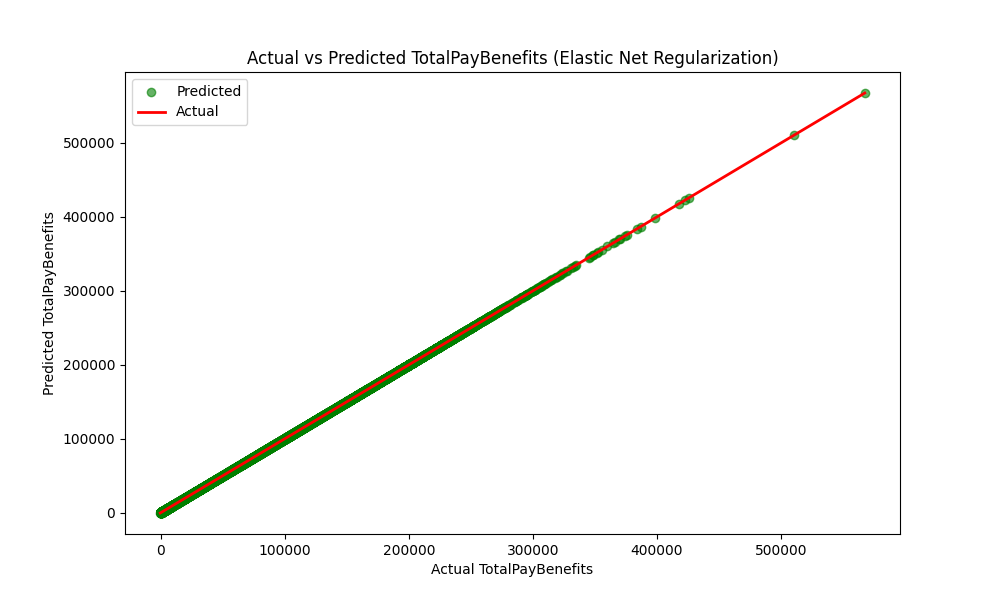
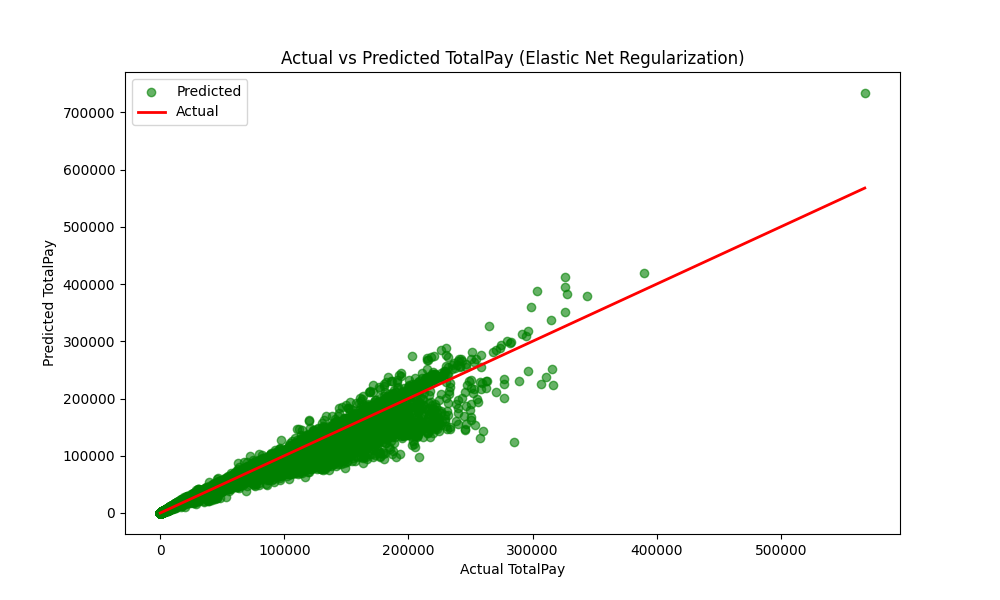
refactor: add MICE for preprocessing

diff --git a/lab4/utils.py b/lab4/utils.py
@@ -7,9 +7,25 @@ from sklearn.decomposition import PCA
 import pandas as pd
 import matplotlib.pyplot as plt
 from tabulate import tabulate
+from sklearn.experimental import enable_iterative_imputer
+from sklearn.impute import IterativeImputer
 
 
-def preprocessData(filename):
+def mice_imputation(data):
+    """
+    Perform MICE imputation on the given DataFrame to replace missing values.
+
+    Parameters:
+    data (pd.DataFrame): The input DataFrame with missing values.
+
+    Returns:
+    pd.DataFrame: The DataFrame with missing values imputed.
+    """
+    imputer = IterativeImputer(max_iter=10, random_state=0)
+    imputed_data = imputer.fit_transform(data)
+    return pd.DataFrame(imputed_data, columns=data.columns)
+
+def preprocessData(filename, results_dir):
     data = pd.read_csv(
         filename,
         dtype={
@@ -26,27 +42,46 @@ def preprocessData(filename):
             'Agency': str,
             'Status': str
         },
-        na_values=["Not Provided", "N/A", "", " "]
+        na_values=["Not Provided", "N/A", "", " "],
+        low_memory=False
     )
+    
     # Check for missing values
-    print("Missing values per column:\n", data.isnull().sum())
+    missing_values = data.isnull().sum()
+    with open(f"{results_dir}/missing_values.txt", "w") as file:
+        file.write("Missing values per column:\n")
+        file.write(missing_values.to_string())
+    
+    data = data.dropna(subset=['BasePay', 'OtherPay'])
 
-    # Fill missing values in Benefits and Status (or drop if not needed)
-    data['Benefits'] = data['Benefits'].fillna(0)
+    # MICE imputation for 'Benefits' column
+    MICE_IMPUTER = IterativeImputer(max_iter=10, random_state=42)
+    current_cols = data.columns.tolist()
+    benefitsIndex = current_cols.index('Benefits')
+    benefitsIndex = 1
+    imputed_benefits = None
+    for feat in ['Benefits']:
+        if feat in data.columns:
+            imputed_benefits = MICE_IMPUTER.fit_transform(data[['OtherPay', 'Benefits', 'Year']])
+            imputed_benefits = pd.DataFrame(imputed_benefits).round(2).values
+    
+    # Replace imputed benefits only if it is NaN
+    data['Benefits'] = data['Benefits'].fillna(pd.Series(imputed_benefits[:, benefitsIndex], index=data.index))
+    # Fill missing values in Status (or drop if not needed)
     data['Status'] = data['Status'].fillna("Unknown")
-
+    
     # Convert columns to appropriate data types
     pay_columns = ['BasePay', 'OvertimePay', 'OtherPay', 'Benefits', 'TotalPay', 'TotalPayBenefits']
     data[pay_columns] = data[pay_columns].apply(pd.to_numeric, errors='coerce')
-
+    
     # Remove duplicates based on Id
     data.drop_duplicates(subset="Id", inplace=True)
     return data
 
-def trainModels(data, results_dir, trainColumns, remove=False):
+def trainModels(data, results_dir, trainColumns, targetColumn, remove=False):
     # Select the features and target variable
     X = data[trainColumns]
-    y = data['TotalPayBenefits']
+    y = data[targetColumn]
 
     # Split the data into training and testing sets
     X_train, X_test, y_train, y_test = train_test_split(X, y, test_size=0.2, random_state=42)
@@ -101,9 +136,9 @@ def trainModels(data, results_dir, trainColumns, remove=False):
         plt.figure(figsize=(10, 6))
         plt.scatter(y_test, predictions, label='Predicted', color=color, alpha=0.6)
         plt.plot([min(y_test), max(y_test)], [min(y_test), max(y_test)], color='red', lw=2, label='Actual')
-        plt.title(f'Actual vs Predicted TotalPayBenefits ({model_name})')
-        plt.xlabel("Actual TotalPayBenefits")
-        plt.ylabel("Predicted TotalPayBenefits")
+        plt.title(f'Actual vs Predicted TotalPay ({model_name})')
+        plt.xlabel("Actual TotalPay")
+        plt.ylabel("Predicted TotalPay")
         plt.legend()
         if remove:
             plt.savefig(f"{results_dir}/{model_name.lower().replace(' ', '_')}_remove.png")
@@ -115,7 +150,7 @@ def trainModels(data, results_dir, trainColumns, remove=False):
 
 def clusterAndVisualize(data, results_dir):
     # Select relevant features for clustering
-    features = data[['TotalPay', 'Benefits']]
+    features = data[['BasePay', 'OtherPay']]
     # Scale the data
     scaler = StandardScaler()
     scaled_features = scaler.fit_transform(features)
@@ -134,11 +169,11 @@ def clusterAndVisualize(data, results_dir):
 
     plt.figure(figsize=(10, 12))
     plt.subplot(2, 1, 1)
-    scatter = plt.scatter(data['TotalPay'], data['Benefits'], 
+    scatter = plt.scatter(data['BasePay'], data['OtherPay'], 
                           c=data['Cluster'].map(color_map), alpha=0.5)
     plt.title('K-means Clustering')
-    plt.xlabel('Benefits')
-    plt.ylabel('TotalPayBenefits')
+    plt.xlabel('OtherPay')
+    plt.ylabel('TotalPay')
     plt.grid()
     handles = [plt.Line2D([0], [0], marker='o', color='w', 
                            markerfacecolor=color, markersize=10) for color in colors]
@@ -155,7 +190,7 @@ def clusterAndVisualize(data, results_dir):
     # Plotting the cluster centers
     centers = pca.transform(kmeans.cluster_centers_)
     plt.scatter(centers[:, 0], centers[:, 1], s=300, c='red', label='Centroids', marker='X')
-    plt.title('K-means Clustering of TotalPayBenefits (PCA Projection)')
+    plt.title('K-means Clustering of TotalPay (PCA Projection)')
     plt.xlabel('PCA Component 1')
     plt.ylabel('PCA Component 2')
     plt.legend()
@@ -165,7 +200,7 @@ def clusterAndVisualize(data, results_dir):
     plt.close()
 
 def predictedClusters(data, results_dir, elastic_net_model):
-    features = data[['TotalPay', 'Benefits']]
+    features = data[['BasePay', 'OtherPay']]
     # Scale the data
     scaler = StandardScaler()
     scaled_features = scaler.fit_transform(features)
@@ -174,7 +209,7 @@ def predictedClusters(data, results_dir, elastic_net_model):
     kmeans.fit(scaled_features)
 
     data['Cluster'] = kmeans.labels_
-    data['PredictedTotalPayBenefits'] = elastic_net_model.predict(data[['TotalPay', 'Benefits']])
+    data['PredictedTotalPay'] = elastic_net_model.predict(data[['BasePay', 'OtherPay']])
 
     # Define colors for clusters
     color_map = {0: 'blue', 1: 'green', 2: 'orange'}
@@ -182,17 +217,17 @@ def predictedClusters(data, results_dir, elastic_net_model):
     
     # Plot each cluster
     for cluster, color in color_map.items():
-        plt.scatter(data[data['Cluster'] == cluster]['TotalPay'], 
-                    data[data['Cluster'] == cluster]['PredictedTotalPayBenefits'], 
+        plt.scatter(data[data['Cluster'] == cluster]['BasePay'], 
+                    data[data['Cluster'] == cluster]['PredictedTotalPay'], 
                     c=color, 
                     label=f'Cluster {cluster}', 
                     alpha=0.7)
 
-    max_value = max(data['TotalPayBenefits'].max(), data['PredictedTotalPayBenefits'].max())
+    max_value = max(data['TotalPay'].max(), data['PredictedTotalPay'].max())
     plt.plot([0, max_value], [0, max_value], color='red', linestyle='--', linewidth=2, label='Actual Values')
-    plt.title('Predicted (Elastic Net Regularization) vs Actual TotalPayBenefits by Clusters')
-    plt.xlabel('TotalPayBenefits')
-    plt.ylabel('Predicted TotalPayBenefits')
+    plt.title('Predicted (Elastic Net Regularization) vs Actual TotalPay by Clusters')
+    plt.xlabel('TotalPay')
+    plt.ylabel('Predicted TotalPay')
     plt.legend()
     plt.savefig(f"{results_dir}/predicted_vs_actual_clusters.png")
     plt.close()

diff --git a/lab4/main.py b/lab4/main.py
@@ -10,10 +10,22 @@ os.makedirs(results_dir, exist_ok=True)
 data_file = "data.csv"
 
 if __name__ == '__main__':
-    data = preprocessData(data_file)
+    data = preprocessData(data_file, results_dir)
+
+    float_columns = data.select_dtypes(include=['float64']).columns
+    float_data = data[float_columns]
+    # Generate correlation matrix
+    correlation_matrix = float_data.corr()
+
+    # Plot the correlation matrix
+    plt.figure(figsize=(12, 10))
+    sns.heatmap(correlation_matrix, annot=True, fmt=".2f", cmap='coolwarm')
+    plt.title("Correlation Matrix")
+    plt.savefig(f"{results_dir}/correlation_matrix.png")
+    plt.close()
 
     # Exploratory Data Analysis (EDA)
-    statistics = data[['Benefits', 'TotalPay', 'TotalPayBenefits', 'Year']].describe()
+    statistics = data[['Benefits', 'TotalPay', 'BasePay', 'OtherPay']].describe()
     statistics_df = pd.DataFrame(statistics)
     statistics_str = tabulate(statistics_df, headers='keys', tablefmt='grid', stralign='center', numalign='center')
 
@@ -21,13 +33,23 @@ if __name__ == '__main__':
     with open(f"{results_dir}/statistics.txt", "w") as file:
         file.write(statistics_str)
 
-    # Distribution of BasePay
-    plt.figure(figsize=(10, 6))
+    # Subplot for BasePay
+    plt.figure(figsize=(20, 6))
+    plt.subplot(1, 2, 1)
     sns.histplot(data['BasePay'].dropna(), kde=True, color='green', bins=30)
     plt.title("Distribution of BasePay")
     plt.xlabel("BasePay")
     plt.ylabel("Frequency")
-    plt.savefig(f"{results_dir}/basepay_histogram.png")
+
+    # Subplot for Benefits
+    plt.subplot(1, 2, 2)
+    sns.histplot(data['Benefits'].dropna(), kde=True, color='blue', bins=30)
+    plt.title("Distribution of Benefits")
+    plt.xlabel("Benefits")
+    plt.ylabel("Frequency")
+
+    plt.tight_layout()
+    plt.savefig(f"{results_dir}/basepay_benefits_histogram.png", bbox_inches='tight')
     plt.close()
 
     # Top 10 Job Titles by Average TotalPayBenefits
@@ -41,12 +63,9 @@ if __name__ == '__main__':
     plt.close()
 
     # Train and Evaluate Models
-    trainColumns = ['TotalPay', 'Benefits']
-    predictedData, elasticNetModel = trainModels(data, results_dir, trainColumns)
-
-    # Train with one necessary column removed
-    trainColumns = ['TotalPay']
-    trainModels(data, results_dir, trainColumns, remove=True)
+    trainColumns = ['BasePay', 'OtherPay']
+    targetColumn = 'TotalPay'
+    predictedData, elasticNetModel = trainModels(data, results_dir, trainColumns, targetColumn)
 
     # Cluster and Visualize
     clusterAndVisualize(data, results_dir)
